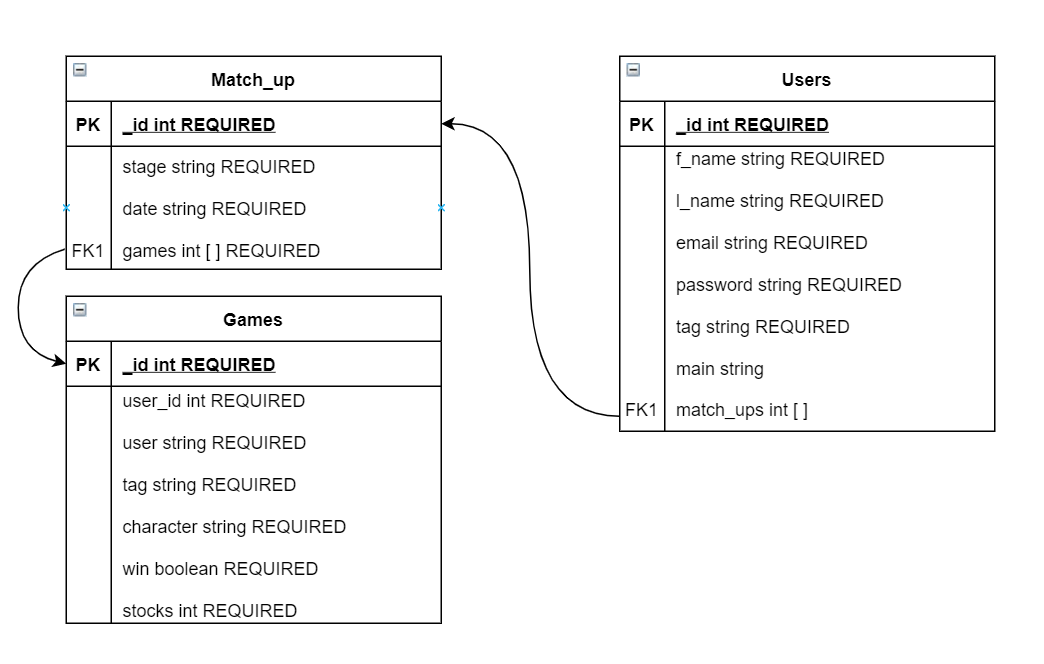
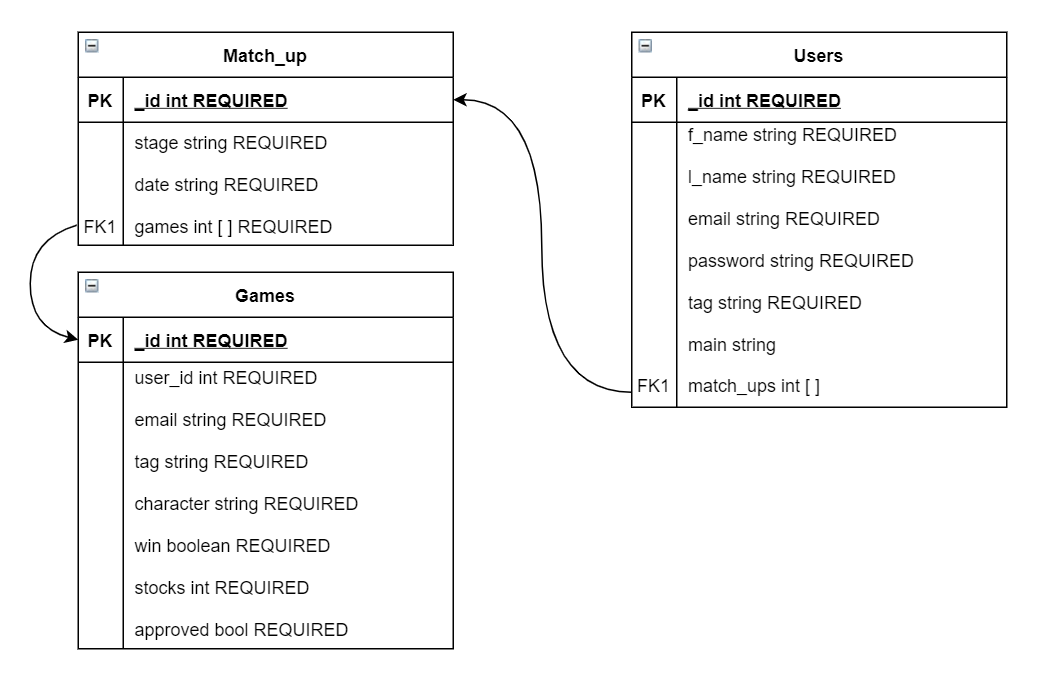
update ERD

diff --git a/server/models/game.py b/server/models/game.py
@@ -1,41 +1,35 @@
 import datetime
 
 
-class Game:
-    def __init__(self, _id: str, user_char: str, opponent_char: str, stage: str, win: bool, user_stock: int,
-                 opponent_stock: int, user_approved: bool = False, opponent_approved: bool = False, date: str = ''):
+class MatchUp:
+    def __init__(self, _id: int, stage: str, games: list = [], date: str = ''):
         """
-        :param _id: object id, matches id of opponents game
-        :param user_char: character used by user
-        :param opponent_char: character used by opponent
+        :param _id: object id
         :param stage: stage game was played on
-        :param win: did user win?
-        :param user_stock: user stocks at game end
-        :param opponent_stock: opponent stocks at game end
-        :param user_approved: record approved by user
-        :param opponent_approved: record approved by opponent
-        :param date: date record was created
+        :param games: list of 2 game objects, one obj for each players game data
+        :param date: datetime string indicating the creation of the object
         """
 
-        # TODO: Add assertions for all models (add constant lists for comparison)
-
-        assert _id != ""
-        assert user_char != ""
-        assert opponent_char != ""
+        assert _id is not None
         assert stage != ""
-        assert 0 <= user_stock <= 4
-        assert 0 <= opponent_stock <= 4
+        assert len(games) == 2
 
         self._id = _id
-        self.user_char = user_char
-        self.opponent_char = opponent_char
         self.stage = stage
-        self.win = win
-        self.user_stock = user_stock
-        self.opponent_stock = opponent_stock
-        self.user_approved = user_approved
-        self.opponent_approved = opponent_approved
         self.date = datetime.datetime.now().strftime("%m/%d/%Y, %H:%M:%S") if date is '' else date
+        self.games = games
+
+    def dict(self):
+        match_up_dict = {
+            "_id": self._id,
+            "stage": self.stage,
+            "date": self.date,
+            "games": []
+        }
+        for game in self.games:
+            match_up_dict["games"].append(game.__dict__)
+        return match_up_dict
 
     def __str__(self):
-        return str(self.__dict__)
+        return str(self.dict())
+

diff --git a/server/models/playermatch.py b/server/models/playermatch.py
@@ -1,0 +1,30 @@
+class Game:
+    def __init__(self, user_id: int, email: str, tag: str, char: str, win: bool, stock: int, approved: bool = False):
+        """
+        :param user_id: id of user
+        :param email: email of user
+        :param tag: tag of user
+        :param char: character used by user
+        :param win: did user win?
+        :param stock: user stocks at game end
+        :param approved: record approved by user
+        """
+
+        # TODO: Add assertions for all models (add constant lists for comparison)
+
+        assert user_id is not None
+        assert email != ""
+        assert tag != ""
+        assert char != ""
+        assert 0 <= stock <= 4
+
+        self.user_id = user_id
+        self.email = email
+        self.tag = tag
+        self.char = char
+        self.win = win
+        self.stock = stock
+        self.approved = approved
+
+    def __str__(self):
+        return str(self.__dict__)
